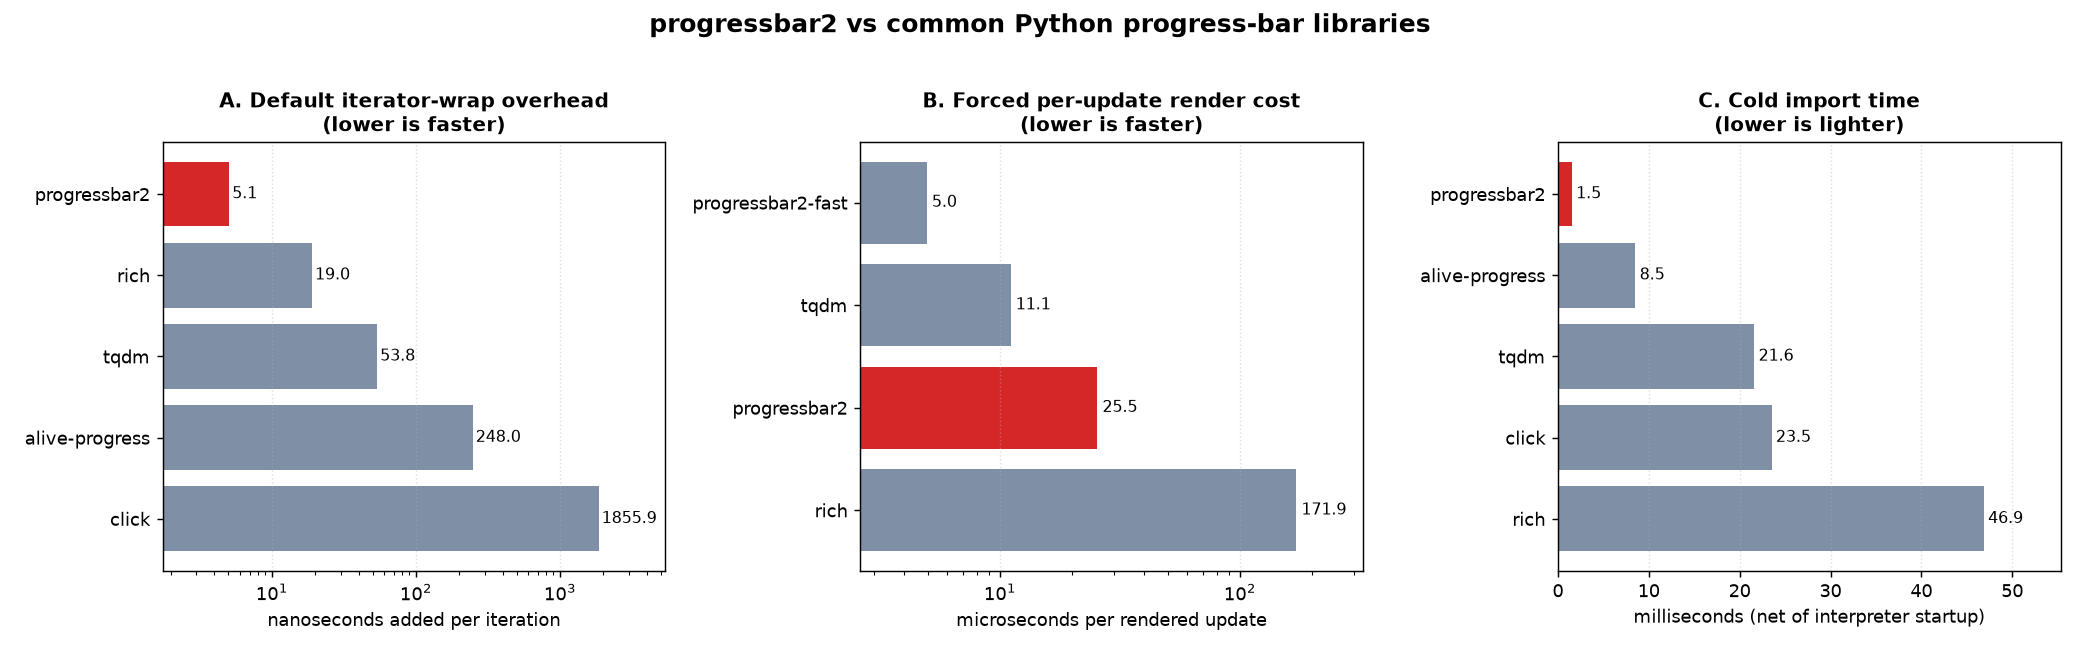
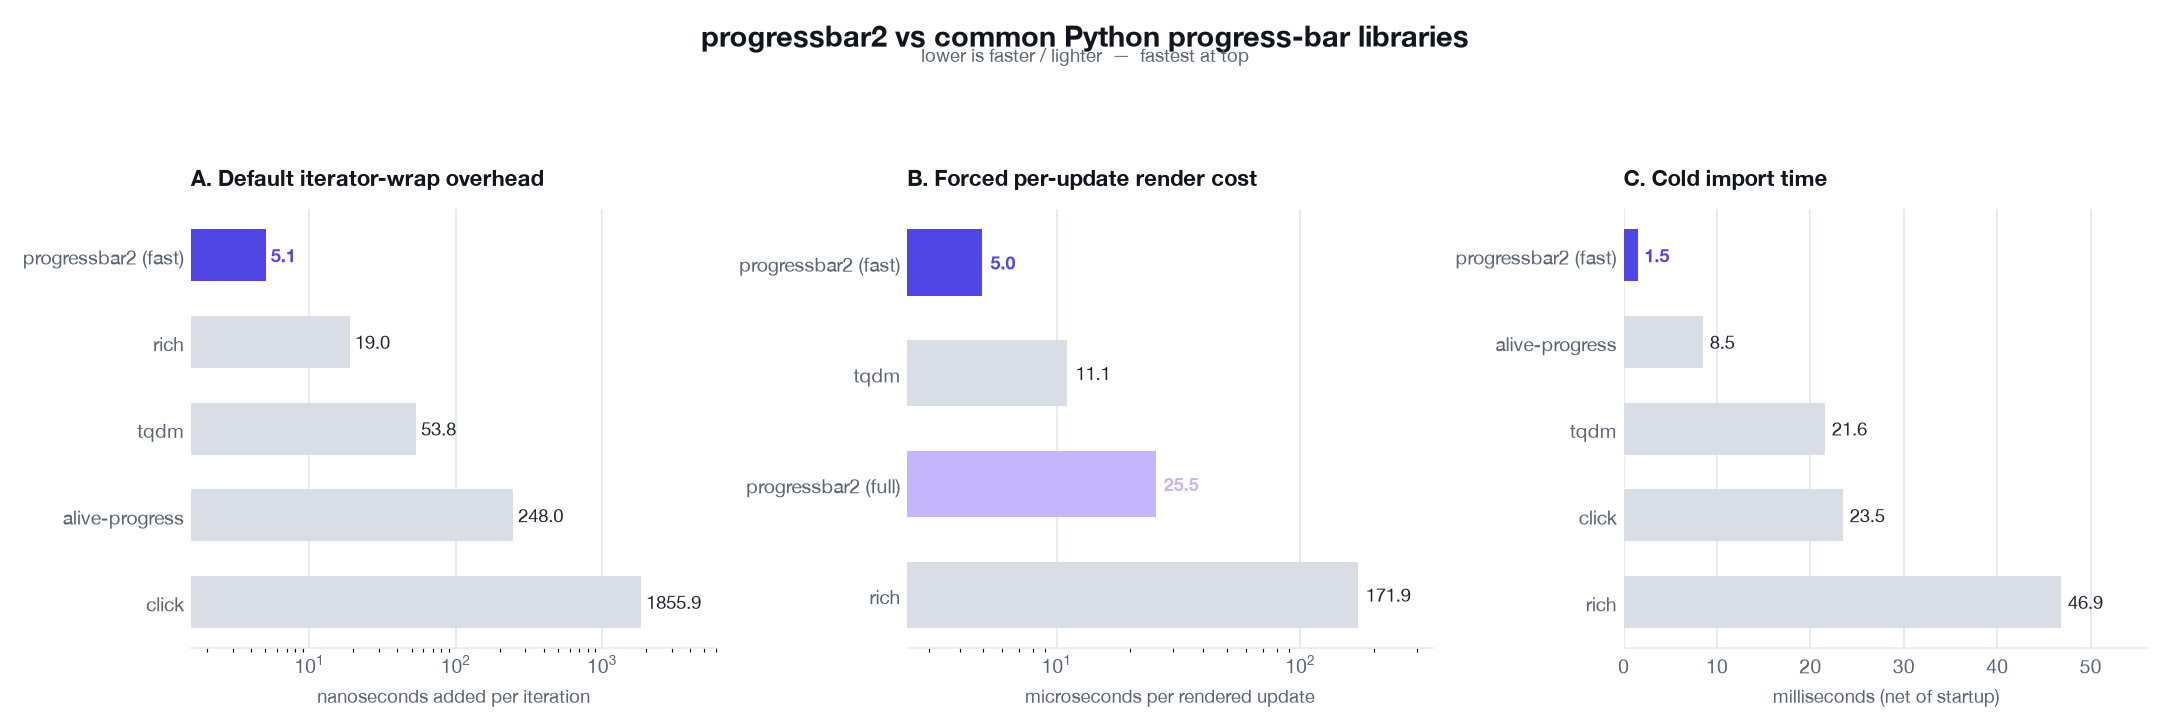
docs(benchmarks): restyle chart, highlight fast + full progressbar2
Editorial-light theme (indigo brand): borderless panels, left-aligned
titles, colored value labels, subtitle. Highlight both our variants in
two shades -- fast (default) bold, full (widgets) muted -- and relabel
panel B to 'progressbar2 (fast)' / 'progressbar2 (full)'. Bold both rows
in report.md tables for consistency.

diff --git a/benchmarks/report.py b/benchmarks/report.py
@@ -11,11 +11,57 @@ import matplotlib
 
 matplotlib.use('Agg')
 import matplotlib.pyplot as plt  # noqa: E402
+from matplotlib import font_manager  # noqa: E402
 
 HERE: str = os.path.dirname(os.path.abspath(__file__))
 SUBJECT: str = 'progressbar2'
-HIGHLIGHT: str = '#d62728'  # progressbar2 bars
-OTHER: str = '#7f8fa6'  # everyone else
+
+# Our two variants share one brand hue so they read as siblings: the fast
+# default pops at full saturation, the full (widget) mode is a muted shade.
+# Every other library is a flat neutral grey.
+FAST: str = 'fast'
+FULL: str = 'full'
+OTHER: str = 'other'
+THEME: dict[str, typing.Any] = {
+    'bg': '#ffffff',
+    'fast': '#4f46e5',  # bold indigo  -> progressbar2 (fast), the default
+    'full': '#c4b5fd',  # muted indigo -> progressbar2 (full), widgets mode
+    'other': '#d8dde6',  # neutral grey -> every other library
+    'text': '#1e2430',
+    'subtext': '#5b6472',
+    'grid': '#e7eaf0',
+    'title': '#11151c',
+    'bar_height': 0.6,
+}
+
+
+def _font() -> str:
+    """Prefer a clean sans; degrade gracefully where it is not installed."""
+    have = {f.name for f in font_manager.fontManager.ttflist}
+    for name in ('Helvetica Neue', 'Helvetica', 'Arial', 'DejaVu Sans'):
+        if name in have:
+            return name
+    return 'sans-serif'
+
+
+def _classify(panel: str, key: str) -> str:
+    """Tag a library as our fast default, our full mode, or another lib."""
+    if key == 'progressbar2-fast':
+        return FAST
+    if key == SUBJECT:
+        # Panels A/C only benchmark the fast default; B splits fast vs full.
+        return FAST if panel in ('A', 'C') else FULL
+    return OTHER
+
+
+def _relabel(panel: str, key: str) -> str:
+    """Display name: spell out fast/full for our bars, raw key otherwise."""
+    cls = _classify(panel, key)
+    if cls == FAST:
+        return 'progressbar2 (fast)'
+    if cls == FULL:
+        return 'progressbar2 (full)'
+    return key
 
 
 def load() -> dict[str, typing.Any]:
@@ -32,62 +78,103 @@ def make_chart(data: dict[str, typing.Any]) -> str:
     b = data['scenario_b_forced_render']['libs']
     c = data['scenario_c_import_time']['libs']
 
-    panels: list[tuple[str, str, list[tuple[str, float]], bool]] = [
+    panels: list[tuple[str, str, str, list[tuple[str, float]], bool]] = [
         (
-            'A. Default iterator-wrap overhead\n(lower is faster)',
+            'A',
+            'Default iterator-wrap overhead',
             'nanoseconds added per iteration',
             _sorted({k: v['overhead_ns_per_iter'] for k, v in a.items()}),
             True,
         ),
         (
-            'B. Forced per-update render cost\n(lower is faster)',
+            'B',
+            'Forced per-update render cost',
             'microseconds per rendered update',
             _sorted({k: v['per_update_us'] for k, v in b.items()}),
             True,
         ),
         (
-            'C. Cold import time\n(lower is lighter)',
-            'milliseconds (net of interpreter startup)',
+            'C',
+            'Cold import time',
+            'milliseconds (net of startup)',
             _sorted({k: v['net_ms'] for k, v in c.items()}),
             False,
         ),
     ]
 
-    fig, axes = plt.subplots(1, 3, figsize=(16, 5))
-    for ax, (title, xlabel, pairs, logx) in zip(axes, panels):
-        labels = [k for k, _ in pairs]
+    color = {FAST: THEME['fast'], FULL: THEME['full'], OTHER: THEME['other']}
+
+    plt.rcParams['font.family'] = _font()
+    fig, axes = plt.subplots(1, 3, figsize=(15.5, 5.2))
+    fig.patch.set_facecolor(THEME['bg'])
+
+    for ax, (pid, ptitle, xlabel, pairs, logx) in zip(axes, panels):
+        ax.set_facecolor(THEME['bg'])
+        classes = [_classify(pid, k) for k, _ in pairs]
+        labels = [_relabel(pid, k) for k, _ in pairs]
         values = [v for _, v in pairs]
-        colors = [HIGHLIGHT if k == SUBJECT else OTHER for k in labels]
-        ypos = range(len(labels))
-        ax.barh(list(ypos), values, color=colors)
-        ax.set_yticks(list(ypos))
-        ax.set_yticklabels(labels)
+        ypos = list(range(len(labels)))
+
+        ax.barh(
+            ypos,
+            values,
+            height=THEME['bar_height'],
+            color=[color[cls] for cls in classes],
+        )
+        ax.set_yticks(ypos)
+        ax.set_yticklabels(labels, color=THEME['text'], fontsize=10)
         ax.invert_yaxis()  # fastest at top
-        ax.set_xlabel(xlabel)
-        ax.set_title(title, fontsize=11, fontweight='bold')
+        ax.set_xlabel(xlabel, color=THEME['subtext'], fontsize=9.5)
+        ax.set_title(
+            f'{pid}. {ptitle}',
+            loc='left',
+            fontsize=11.5,
+            fontweight='bold',
+            color=THEME['title'],
+            pad=12,
+        )
         if logx:
             ax.set_xscale('log')
-        ax.grid(axis='x', linestyle=':', alpha=0.4)
+        ax.grid(axis='x', color=THEME['grid'], linewidth=1)
+        ax.set_axisbelow(True)
+        for spine in ('top', 'right', 'left'):
+            ax.spines[spine].set_visible(False)
+        ax.spines['bottom'].set_color(THEME['grid'])
+        ax.tick_params(colors=THEME['subtext'], length=0)
+        ax.margins(x=0.2)
+
         xmax = max(values)
-        for y, val in zip(ypos, values):
+        for y, val, cls in zip(ypos, values, classes):
             label = f'{val:.1f}' if val >= 1 else f'{val:.2f}'
             ax.text(
-                val * 1.05 if logx else val + xmax * 0.01,
+                val * 1.08 if logx else val + xmax * 0.015,
                 y,
                 label,
                 va='center',
-                fontsize=9,
+                ha='left',
+                fontsize=9.5,
+                fontweight='normal' if cls == OTHER else 'bold',
+                color=THEME['text'] if cls == OTHER else color[cls],
             )
-        ax.margins(x=0.18)
 
     fig.suptitle(
         'progressbar2 vs common Python progress-bar libraries',
-        fontsize=14,
+        fontsize=15,
         fontweight='bold',
+        color=THEME['title'],
+        y=0.975,
     )
-    fig.tight_layout(rect=(0, 0, 1, 0.96))
+    fig.text(
+        0.5,
+        0.915,
+        'lower is faster / lighter  —  fastest at top',
+        ha='center',
+        fontsize=9.5,
+        color=THEME['subtext'],
+    )
+    fig.tight_layout(rect=(0, 0, 1, 0.88))
     out = os.path.join(HERE, 'chart.png')
-    fig.savefig(out, dpi=130)
+    fig.savefig(out, dpi=140, facecolor=THEME['bg'])
     plt.close(fig)
     return out
 
@@ -172,7 +259,7 @@ def make_report(data: dict[str, typing.Any], chart_name: str) -> str:
         {k: vv['overhead_ns_per_iter'] for k, vv in a['libs'].items()}
     ):
         vv = a['libs'][name]
-        bold = '**' if name == SUBJECT else ''
+        bold = '**' if name in (SUBJECT, 'progressbar2-fast') else ''
         w(
             f'| {bold}{name}{bold} | {vv["total_min_s"] * 1e3:.1f} ms '
             f'| {vv["overhead_ns_per_iter"]:.1f} ns '
@@ -195,7 +282,7 @@ def make_report(data: dict[str, typing.Any], chart_name: str) -> str:
         {k: vv['per_update_us'] for k, vv in b['libs'].items()}
     ):
         vv = b['libs'][name]
-        bold = '**' if name == SUBJECT else ''
+        bold = '**' if name in (SUBJECT, 'progressbar2-fast') else ''
         w(
             f'| {bold}{name}{bold} | {vv["total_min_s"] * 1e3:.1f} ms '
             f'| {vv["per_update_us"]:.2f} us '
@@ -221,7 +308,7 @@ def make_report(data: dict[str, typing.Any], chart_name: str) -> str:
     w('|---|--:|')
     for name, v in _sorted({k: vv['net_ms'] for k, vv in c['libs'].items()}):
         vv = c['libs'][name]
-        bold = '**' if name == SUBJECT else ''
+        bold = '**' if name in (SUBJECT, 'progressbar2-fast') else ''
         w(f'| {bold}{name}{bold} | {vv["net_ms"]:.1f} ms |')
     w('')
 

diff --git a/benchmarks/report.md b/benchmarks/report.md
@@ -1,6 +1,6 @@
 # Python progress-bar library benchmark
 
-_Generated 2026-06-24 19:25. Subject: **progressbar2** (version 4.5.0)._
+_Generated 2026-06-27 03:03. Subject: **progressbar2** (version 4.5.0)._
 
 Compares `progressbar2` against the most common alternatives across three independent dimensions. All rendered output is written to a real pseudo-terminal (pty) that is continuously drained, so every library believes it is attached to a TTY and actually draws — the comparison is apples-to-apples, not "is output suppressed when piped".
 
@@ -43,7 +43,7 @@ Rendering **forced on every single update** over **30,000** updates — i.e. the
 
 | Library | Total time | Per rendered update | vs progressbar2 |
 |---|--:|--:|--:|
-| progressbar2-fast | 148.9 ms | 4.96 us | 0.19x |
+| **progressbar2-fast** | 148.9 ms | 4.96 us | 0.19x |
 | tqdm | 332.7 ms | 11.08 us | 0.44x |
 | **progressbar2** | 764.6 ms | 25.48 us | baseline |
 | rich | 5156.6 ms | 171.88 us | 6.75x |
